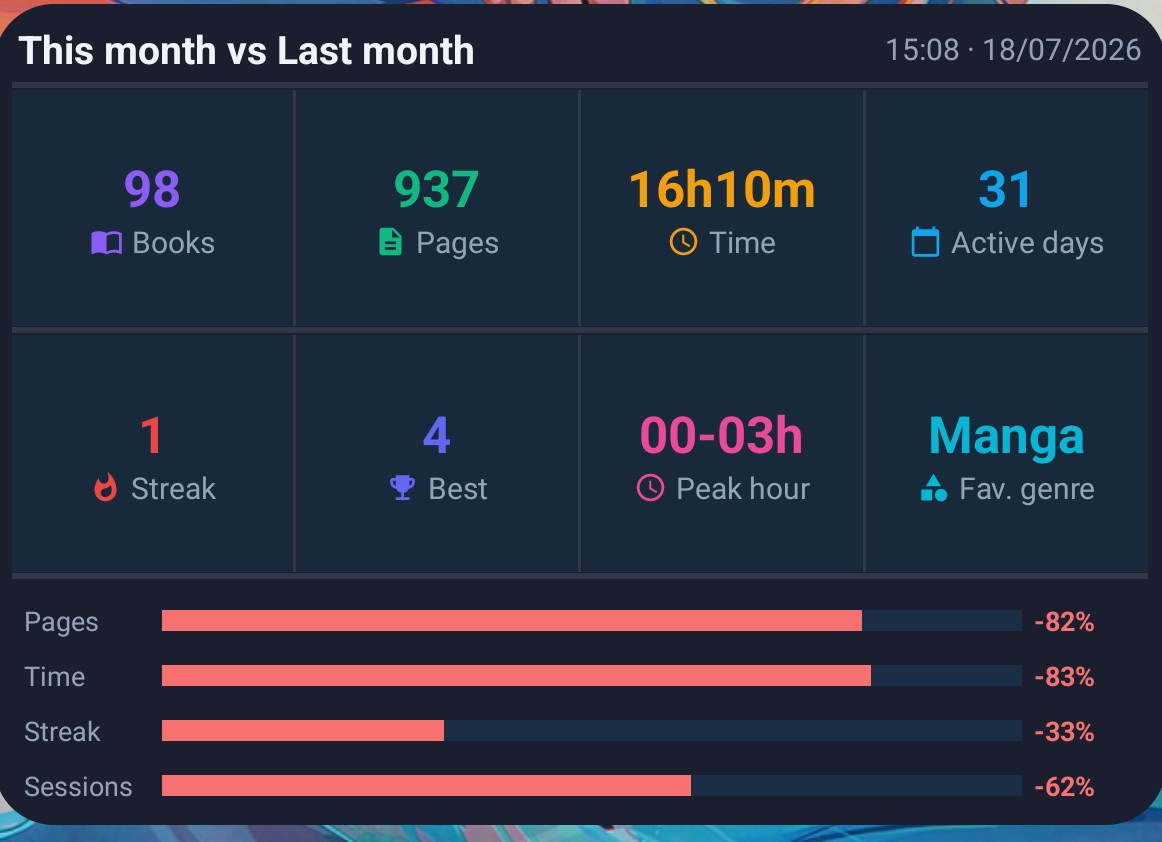
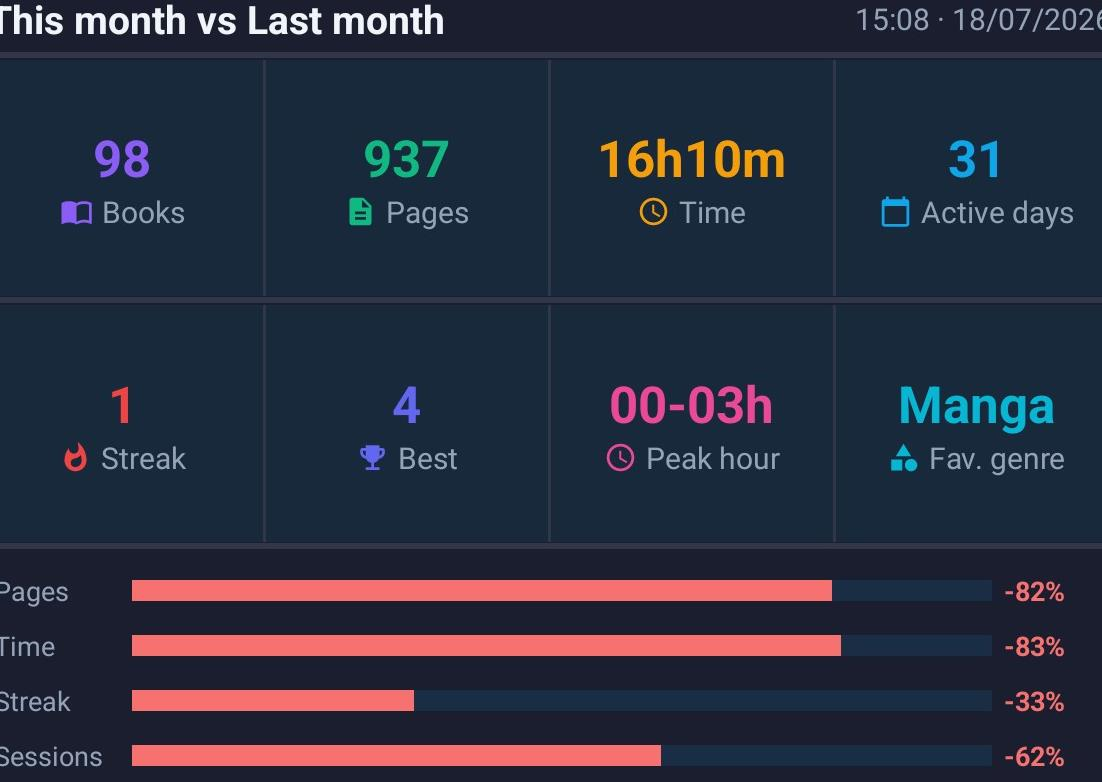
feat: carrusel de temas + recorte de capturas de widgets
- Lightbox de temas convertido en carrusel con flechas prev/next, caption
  y soporte de teclado (ArrowLeft/Right, Escape). El carrusel agrupa los 5
  temas de cada bloque ES/EN de forma independiente.
- Capturas de widgets recortadas ~30px por lado para reducir bordes.
- CSS para .lbx-nav y .lbx-cap anadido en styles.css.

diff --git a/index.html b/index.html
@@ -930,33 +930,75 @@
 <!-- Lightbox overlay -->
 <div class="lbx-overlay" id="lightbox">
     <button class="lbx-close" id="lbxClose">&#x2715;</button>
+    <button class="lbx-nav" id="lbxPrev">&#x2039;</button>
     <img class="lbx-img" id="lbxImg" src="" alt="">
+    <button class="lbx-nav" id="lbxNext">&#x203a;</button>
+    <span class="lbx-cap" id="lbxCap"></span>
 </div>
 
 <!-- Scripts al final del body (no bloquean renderizado) -->
 <script src="main.js" defer></script>
 <script>
 (function(){
-    var overlay = document.getElementById('lightbox');
-    var img = document.getElementById('lbxImg');
+    var overlay  = document.getElementById('lightbox');
+    var img      = document.getElementById('lbxImg');
     var closeBtn = document.getElementById('lbxClose');
-    document.querySelectorAll('[data-src]').forEach(function(card){
+    var prevBtn  = document.getElementById('lbxPrev');
+    var nextBtn  = document.getElementById('lbxNext');
+    var cap      = document.getElementById('lbxCap');
+    var group = [], idx = 0;
+
+    function showAt(i) {
+        idx = (i + group.length) % group.length;
+        var el = group[idx];
+        img.src = el.dataset.src;
+        var fc = el.querySelector && el.querySelector('figcaption');
+        cap.textContent = fc ? fc.textContent : '';
+        cap.style.display = fc ? '' : 'none';
+        var hasNav = group.length > 1;
+        prevBtn.style.display = hasNav ? '' : 'none';
+        nextBtn.style.display = hasNav ? '' : 'none';
+    }
+    function openLbx(g, i) {
+        group = g; showAt(i);
+        overlay.classList.add('open');
+        document.body.style.overflow = 'hidden';
+    }
+    function closeLbx() {
+        overlay.classList.remove('open');
+        document.body.style.overflow = '';
+        img.src = ''; group = [];
+    }
+
+    // Figures inside .themes-row → carousel
+    document.querySelectorAll('.themes-row figure[data-src]').forEach(function(fig){
+        fig.style.cursor = 'zoom-in';
+        fig.addEventListener('click', function(e){
+            e.stopPropagation();
+            var row = fig.closest('.themes-row');
+            var g = Array.from(row.querySelectorAll('figure[data-src]'));
+            openLbx(g, g.indexOf(fig));
+        });
+    });
+    // Other [data-src] elements → single view
+    document.querySelectorAll('[data-src]:not(figure)').forEach(function(card){
         card.style.cursor = 'zoom-in';
         card.addEventListener('click', function(e){
             e.stopPropagation();
-            img.src = card.dataset.src;
-            overlay.classList.add('open');
-            document.body.style.overflow = 'hidden';
+            openLbx([card], 0);
         });
     });
-    function closeLbx(){
-        overlay.classList.remove('open');
-        document.body.style.overflow = '';
-        img.src = '';
-    }
+
+    prevBtn.addEventListener('click', function(e){ e.stopPropagation(); showAt(idx - 1); });
+    nextBtn.addEventListener('click', function(e){ e.stopPropagation(); showAt(idx + 1); });
     closeBtn.addEventListener('click', closeLbx);
-    overlay.addEventListener('click', function(e){ if(e.target===overlay) closeLbx(); });
-    document.addEventListener('keydown', function(e){ if(e.key==='Escape') closeLbx(); });
+    overlay.addEventListener('click', function(e){ if(e.target === overlay) closeLbx(); });
+    document.addEventListener('keydown', function(e){
+        if (!overlay.classList.contains('open')) return;
+        if (e.key === 'Escape')      closeLbx();
+        if (e.key === 'ArrowLeft')   showAt(idx - 1);
+        if (e.key === 'ArrowRight')  showAt(idx + 1);
+    });
 })();
 </script>
 </body>

diff --git a/styles.css b/styles.css
@@ -664,6 +664,40 @@ body {
     border-radius: 8px;
 }
 .lbx-close:hover { opacity: 1; background: rgba(255,255,255,0.1); }
+.lbx-nav {
+    position: fixed;
+    top: 50%;
+    transform: translateY(-50%);
+    color: #fff;
+    font-size: 48px;
+    line-height: 1;
+    cursor: pointer;
+    opacity: 0.7;
+    background: rgba(0,0,0,0.35);
+    border: none;
+    padding: 12px 10px 14px;
+    border-radius: 10px;
+    z-index: 10000;
+    transition: opacity 0.15s, background 0.15s;
+    user-select: none;
+}
+.lbx-nav:hover { opacity: 1; background: rgba(255,255,255,0.15); }
+#lbxPrev { left: 10px; }
+#lbxNext { right: 10px; }
+.lbx-cap {
+    position: fixed;
+    bottom: 18px;
+    left: 50%;
+    transform: translateX(-50%);
+    color: rgba(255,255,255,0.9);
+    font-size: 0.9rem;
+    white-space: nowrap;
+    background: rgba(0,0,0,0.5);
+    padding: 4px 16px;
+    border-radius: 20px;
+    pointer-events: none;
+}
+.themes-row figure { cursor: zoom-in; }
 
 /* ─── PRIVACY HIGHLIGHT ─── */
 .privacy-highlight {
